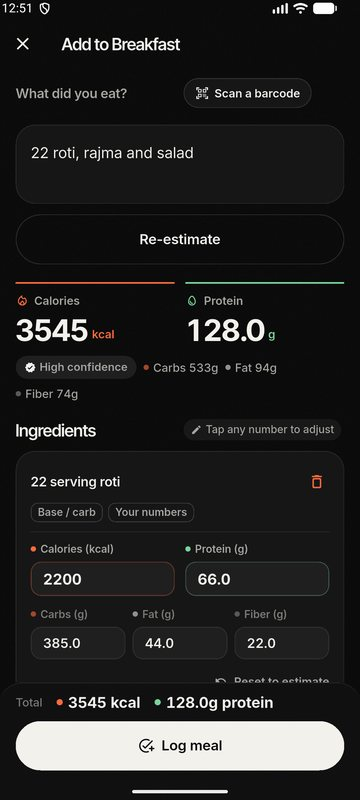
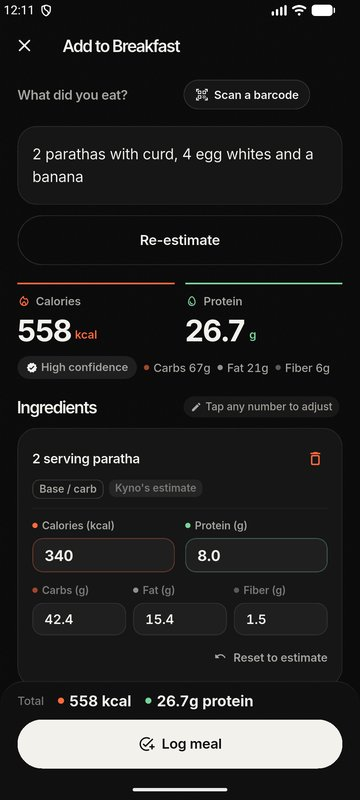
fix(site): replace the mistyped meal screenshot (22 roti) with a clean capture

diff --git a/site/index.html b/site/index.html
@@ -86,7 +86,7 @@
 <p data-reveal>Type it the way you'd say it. Two roti, dal, a bowl of aloo sabzi, curd on the side. Kyno works out the calories and protein, and calls it <strong>Kyno's estimate</strong> until you say it's right.</p>
 <div class="describe" data-reveal aria-label="Example of describing a meal"><span class="k" aria-hidden="true">k</span><span><span class="lbl">Describe it</span><span class="typed" data-lines="2 roti, dal makhani, half bowl rice|mess thali, extra paneer|4 egg whites + 400 ml milk|1 plate poha and a cutting chai">2 roti, dal makhani, half bowl rice<span class="caret" aria-hidden="true"></span></span></span></div>
 <p data-reveal>Packaged? Scan the barcode and log the exact pack. Fix a portion once and Kynetix remembers how you eat it.</p>
-<div class="inline-shot"><div class="phone"><div class="screen"><img src="assets/img/app-meal-540.webp" width="540" height="1152" alt="Adding to breakfast in Kynetix: 22 roti, rajma and salad typed in plain words, estimated at 3,545 kcal and 128 g of protein with high confidence, with ingredients you can adjust." loading="lazy" decoding="async"></div></div></div>
+<div class="inline-shot"><div class="phone"><div class="screen"><img src="assets/img/app-meal-540.webp" width="540" height="1152" alt="Adding to breakfast in Kynetix: 2 parathas with curd, 4 egg whites and a banana typed in plain words, estimated at 558 kcal and 26.7 g of protein with high confidence, with ingredients you can adjust." loading="lazy" decoding="async"></div></div></div>
 </article>
 
 <article class="chapter" id="training" data-screen="1">
@@ -116,7 +116,7 @@
 
 </div>
 <div class="stick"><div class="stick-inner"><div class="phone tilt"><div class="screen screens">
-<div class="scr on"><img class="h-t" src="assets/img/app-meal-540.webp" width="540" height="1152" alt="Adding to breakfast in Kynetix: 22 roti, rajma and salad typed in plain words, estimated at 3,545 kcal and 128 g of protein with high confidence." loading="lazy" decoding="async"><img class="h-b" src="assets/img/app-meal-540.webp" width="540" height="1152" alt="" aria-hidden="true" loading="lazy" decoding="async"></div>
+<div class="scr on"><img class="h-t" src="assets/img/app-meal-540.webp" width="540" height="1152" alt="Adding to breakfast in Kynetix: 2 parathas with curd, 4 egg whites and a banana typed in plain words, estimated at 558 kcal and 26.7 g of protein with high confidence." loading="lazy" decoding="async"><img class="h-b" src="assets/img/app-meal-540.webp" width="540" height="1152" alt="" aria-hidden="true" loading="lazy" decoding="async"></div>
 <div class="scr"><img class="h-t" src="assets/img/app-workout-540.webp" width="540" height="1152" alt="A workout in progress: Close Grip Seated Cable Row, 40 kg for 11 reps, with Kyno's suggestion of 40 kg for 11." loading="lazy" decoding="async"><img class="h-b" src="assets/img/app-workout-540.webp" width="540" height="1152" alt="" aria-hidden="true" loading="lazy" decoding="async"></div>
 <div class="scr"><img class="h-t" src="assets/img/app-train-540.webp" width="540" height="1152" alt="The Train screen: Back and Biceps done for today, a week strip and totals for kilos lifted, sets and streak." loading="lazy" decoding="async"><img class="h-b" src="assets/img/app-train-540.webp" width="540" height="1152" alt="" aria-hidden="true" loading="lazy" decoding="async"></div>
 <div class="scr"><img class="h-t" src="assets/img/app-home-540.webp" width="540" height="1152" alt="The Kynetix home screen: Good morning, Dhruv, with 1,901 kcal left of 2,459 and protein for the day." loading="lazy" decoding="async"><img class="h-b" src="assets/img/app-home-540.webp" width="540" height="1152" alt="" aria-hidden="true" loading="lazy" decoding="async"></div>
